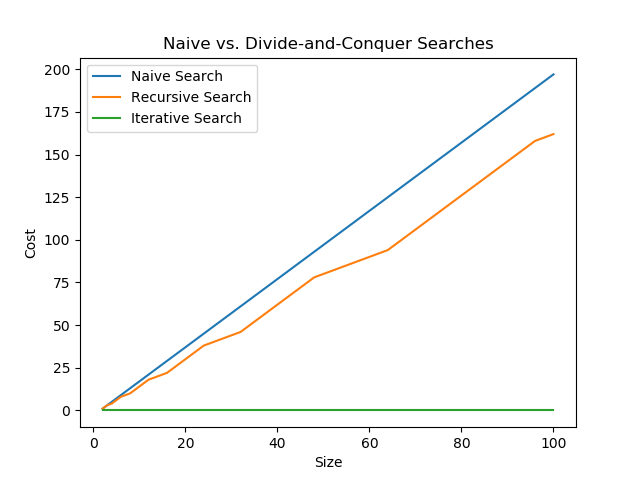
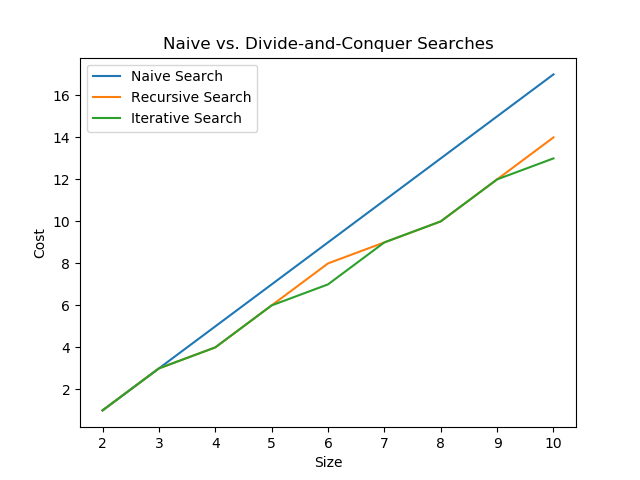
added iterative search

diff --git a/AlgorithmsHW1/search.cpp b/AlgorithmsHW1/search.cpp
@@ -1,5 +1,6 @@
 #include <stdlib.h>
 #include <iostream>
+#include <cmath>
 
 using namespace std;
 
@@ -63,5 +64,52 @@ void recursive_search( int buffer[], int curr_size, int & min, int & max, int & 
 
 void iterative_search( int buffer[], int curr_size, int & min, int & max, int & cost)
 {
-
+    //int num_layers = ceil(log(curr_size)/log(2));
+    //int skip_size;
+    //for (int k = 1; k < num_layers; ++k) {
+    //    skip_size = (int)pow(2, k);
+    //    for (int i = 0; i < curr_size; i=i+skip_size) {
+    //        if (buffer[i] > buffer[i+skip_size]) {
+    //            swap(buffer[i], buffer[i+1]);
+    //        }
+    //        ++cost;
+    //    }
+    //}
+    min = buffer[0];
+    max = buffer[1];
+    if (min > max) {
+        swap(max, min);
+    }
+    cost++;
+    
+    bool check_last_element = (curr_size % 2 != 0);
+    for (int i = 2; i < curr_size-1; i = i+2) {
+        if(buffer[i] > buffer[i+1]) {
+            if (buffer[i] > max) {
+                max = buffer[i];
+            }
+            if (buffer[i+1] < min) {
+                min = buffer[i+1];
+            }
+            cost += 2;
+        } 
+        else {
+            if (buffer[i+1] > max) {
+                max = buffer[i+1];
+            }
+            if (buffer[i] < min) {
+                min = buffer[i];
+            }
+            cost += 2;
+        }
+        ++cost;
+    }
+    if (check_last_element) {
+        if(buffer[curr_size-1] > max) {
+            max = buffer[curr_size-1];
+        } else if (buffer[curr_size-1] < min) {
+            min = buffer[curr_size-1];
+        }
+        cost += 2;
+    }
 }

diff --git a/AlgorithmsHW1/main.cpp b/AlgorithmsHW1/main.cpp
@@ -45,23 +45,25 @@ int main( int argc, char *argv[] )
 		}
 
 		// shuffle array
-		shuffle( buffer, curr_size );
-      show(buffer, curr_size);
+        show(buffer, curr_size);
 		
         // search for minmax while tracking cost
 		int min, max;
 		int naive_cost = 0;
 
+        shuffle(buffer, curr_size);
 		naive_search( buffer, curr_size, min, max, naive_cost );
         cout << "Naive Cost = " << naive_cost << endl;
 
+        shuffle(buffer, curr_size);
         int recursive_cost = 0;
         recursive_search(buffer, curr_size, min, max, recursive_cost);
         cout << "Recursive Cost = " << recursive_cost << endl;
-        cout << endl;
 
+        shuffle(buffer, curr_size);
         int iterative_cost = 0;
-        // iterative search
+        iterative_search(buffer, curr_size, min, max, iterative_cost);
+        cout << "Iterative Cost = " << iterative_cost << endl << endl;
 
 		assert( min == 0 && max == curr_size - 1 );
 		outfile << curr_size << "," << naive_cost << "," << recursive_cost << "," << iterative_cost << endl;

diff --git a/AlgorithmsHW1/plots.py b/AlgorithmsHW1/plots.py
@@ -1,7 +1,8 @@
 import matplotlib.pyplot as plt
 import pandas as pd
 
-df = pd.read_csv("out.csv")
+f = input("Data Filename: ")
+df = pd.read_csv(f)
 
 x = df["Size"]
 
